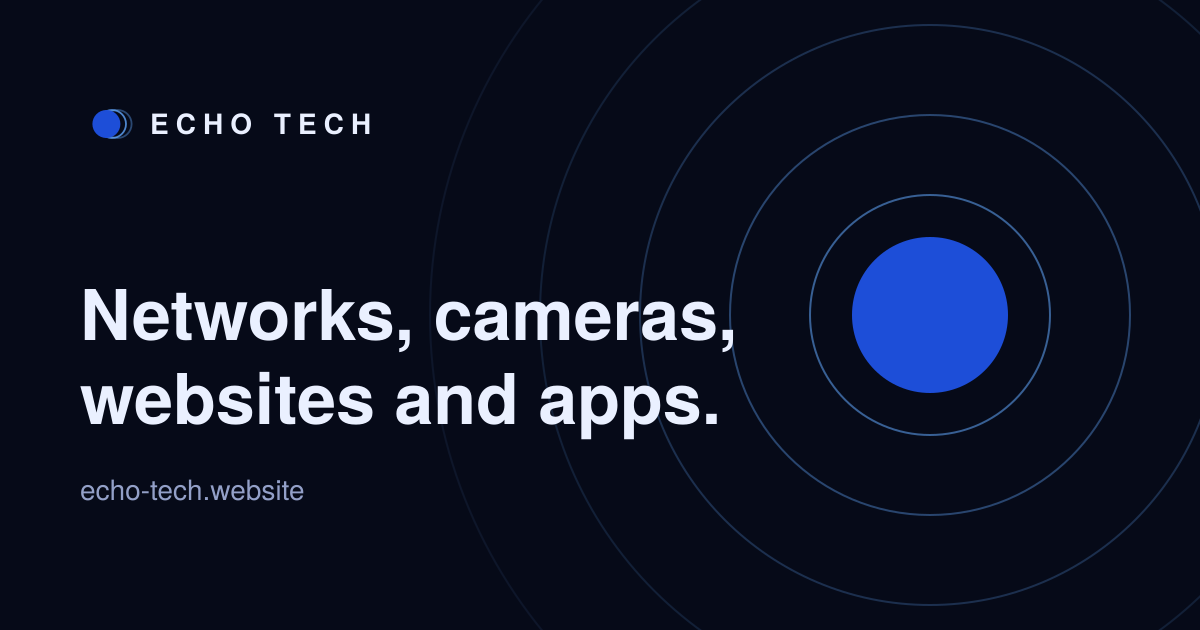
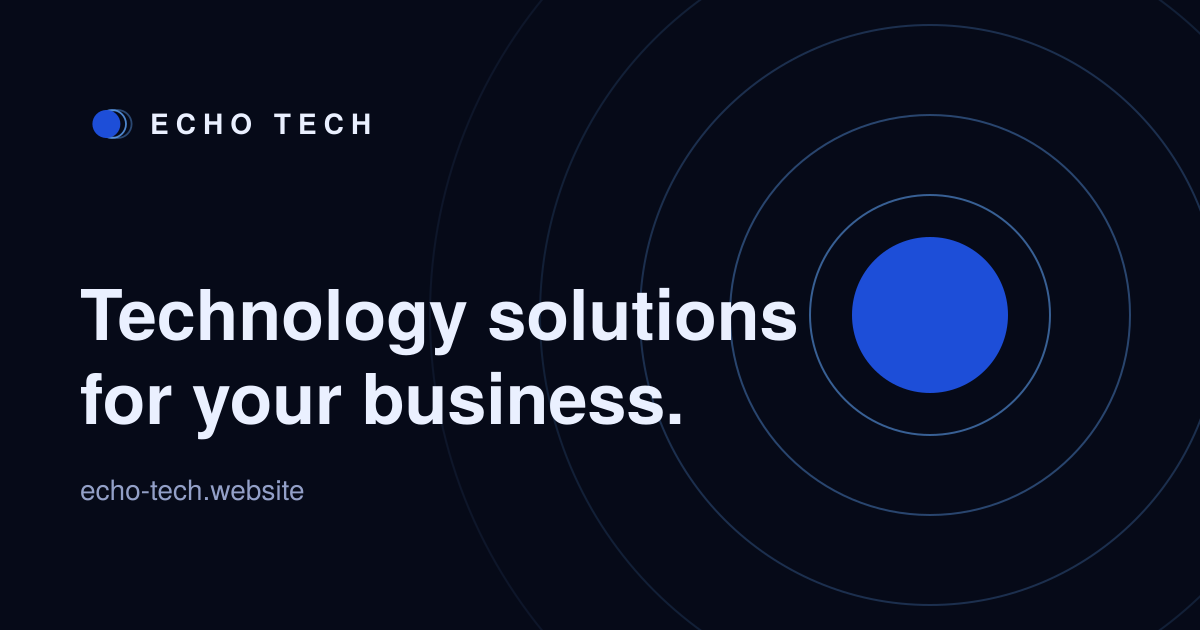
Make the share image generic and cache-bust it
Claude-Session: https://claude.ai/code/session_01CFoya7mvDhCqyibe4pdqP6

Changed region(s): [[0.0617, 0.4524, 0.6783, 0.573], [0.0617, 0.573, 0.5858, 0.6937]]

diff --git a/public/services/network/index.html b/public/services/network/index.html
@@ -16,7 +16,7 @@
 <meta property="og:title" content="البنية التحتية للشبكات للمكاتب والمحال والمواقع — Echo Tech">
 <meta property="og:description" content="تصمّم إيكو تك الشبكات السلكية واللاسلكية وتركّبها وتوثّقها: كابلات وواي فاي وراوترات وجدران حماية ووصول آمن عن بُعد.">
 <meta property="og:url" content="https://echo-tech.website/services/network/">
-<meta property="og:image" content="https://echo-tech.website/assets/brand/og-image.png">
+<meta property="og:image" content="https://echo-tech.website/assets/brand/og-image.png?v=5ab52fd40d">
 <meta property="og:image:width" content="1200">
 <meta property="og:image:height" content="630">
 <meta property="og:locale" content="ar_EG">
@@ -24,7 +24,7 @@
 <meta name="twitter:card" content="summary_large_image">
 <meta name="twitter:title" content="البنية التحتية للشبكات للمكاتب والمحال والمواقع — Echo Tech">
 <meta name="twitter:description" content="تصمّم إيكو تك الشبكات السلكية واللاسلكية وتركّبها وتوثّقها: كابلات وواي فاي وراوترات وجدران حماية ووصول آمن عن بُعد.">
-<meta name="twitter:image" content="https://echo-tech.website/assets/brand/og-image.png">
+<meta name="twitter:image" content="https://echo-tech.website/assets/brand/og-image.png?v=5ab52fd40d">
 <link rel="icon" href="/favicon.ico" sizes="48x48">
 <link rel="icon" href="/favicon.svg" type="image/svg+xml">
 <link rel="apple-touch-icon" href="/apple-touch-icon.png">

diff --git a/public/services/web/index.html b/public/services/web/index.html
@@ -16,7 +16,7 @@
 <meta property="og:title" content="تصميم وتطوير المواقع الإلكترونية بالعربية والإنجليزية — Echo Tech">
 <meta property="og:description" content="تبني إيكو تك مواقع سريعة بلغتين على Cloudflare، بهيكلة صديقة لمحركات البحث ونماذج تصلك على بريدك أو نظام العملاء.">
 <meta property="og:url" content="https://echo-tech.website/services/web/">
-<meta property="og:image" content="https://echo-tech.website/assets/brand/og-image.png">
+<meta property="og:image" content="https://echo-tech.website/assets/brand/og-image.png?v=5ab52fd40d">
 <meta property="og:image:width" content="1200">
 <meta property="og:image:height" content="630">
 <meta property="og:locale" content="ar_EG">
@@ -24,7 +24,7 @@
 <meta name="twitter:card" content="summary_large_image">
 <meta name="twitter:title" content="تصميم وتطوير المواقع الإلكترونية بالعربية والإنجليزية — Echo Tech">
 <meta name="twitter:description" content="تبني إيكو تك مواقع سريعة بلغتين على Cloudflare، بهيكلة صديقة لمحركات البحث ونماذج تصلك على بريدك أو نظام العملاء.">
-<meta name="twitter:image" content="https://echo-tech.website/assets/brand/og-image.png">
+<meta name="twitter:image" content="https://echo-tech.website/assets/brand/og-image.png?v=5ab52fd40d">
 <link rel="icon" href="/favicon.ico" sizes="48x48">
 <link rel="icon" href="/favicon.svg" type="image/svg+xml">
 <link rel="apple-touch-icon" href="/apple-touch-icon.png">

diff --git a/public/services/cctv/index.html b/public/services/cctv/index.html
@@ -16,7 +16,7 @@
 <meta property="og:title" content="أنظمة كاميرات المراقبة: تصميم وتركيب ومشاهدة عن بُعد — Echo Tech">
 <meta property="og:description" content="تصمّم إيكو تك أنظمة كاميرات IP وتركّبها بتسجيل موثوق ومشاهدة عن بُعد على الموبايل والكمبيوتر.">
 <meta property="og:url" content="https://echo-tech.website/services/cctv/">
-<meta property="og:image" content="https://echo-tech.website/assets/brand/og-image.png">
+<meta property="og:image" content="https://echo-tech.website/assets/brand/og-image.png?v=5ab52fd40d">
 <meta property="og:image:width" content="1200">
 <meta property="og:image:height" content="630">
 <meta property="og:locale" content="ar_EG">
@@ -24,7 +24,7 @@
 <meta name="twitter:card" content="summary_large_image">
 <meta name="twitter:title" content="أنظمة كاميرات المراقبة: تصميم وتركيب ومشاهدة عن بُعد — Echo Tech">
 <meta name="twitter:description" content="تصمّم إيكو تك أنظمة كاميرات IP وتركّبها بتسجيل موثوق ومشاهدة عن بُعد على الموبايل والكمبيوتر.">
-<meta name="twitter:image" content="https://echo-tech.website/assets/brand/og-image.png">
+<meta name="twitter:image" content="https://echo-tech.website/assets/brand/og-image.png?v=5ab52fd40d">
 <link rel="icon" href="/favicon.ico" sizes="48x48">
 <link rel="icon" href="/favicon.svg" type="image/svg+xml">
 <link rel="apple-touch-icon" href="/apple-touch-icon.png">

diff --git a/public/services/apps/index.html b/public/services/apps/index.html
@@ -16,7 +16,7 @@
 <meta property="og:title" content="تطوير تطبيقات الموبايل لـ iOS وAndroid — Echo Tech">
 <meta property="og:description" content="تحدّد إيكو تك نطاق تطبيقات iOS وAndroid وتصمّمها وتبنيها مع الواجهات البرمجية وقواعد البيانات التي تحتاجها.">
 <meta property="og:url" content="https://echo-tech.website/services/apps/">
-<meta property="og:image" content="https://echo-tech.website/assets/brand/og-image.png">
+<meta property="og:image" content="https://echo-tech.website/assets/brand/og-image.png?v=5ab52fd40d">
 <meta property="og:image:width" content="1200">
 <meta property="og:image:height" content="630">
 <meta property="og:locale" content="ar_EG">
@@ -24,7 +24,7 @@
 <meta name="twitter:card" content="summary_large_image">
 <meta name="twitter:title" content="تطوير تطبيقات الموبايل لـ iOS وAndroid — Echo Tech">
 <meta name="twitter:description" content="تحدّد إيكو تك نطاق تطبيقات iOS وAndroid وتصمّمها وتبنيها مع الواجهات البرمجية وقواعد البيانات التي تحتاجها.">
-<meta name="twitter:image" content="https://echo-tech.website/assets/brand/og-image.png">
+<meta name="twitter:image" content="https://echo-tech.website/assets/brand/og-image.png?v=5ab52fd40d">
 <link rel="icon" href="/favicon.ico" sizes="48x48">
 <link rel="icon" href="/favicon.svg" type="image/svg+xml">
 <link rel="apple-touch-icon" href="/apple-touch-icon.png">

diff --git a/public/services/systems/index.html b/public/services/systems/index.html
@@ -16,7 +16,7 @@
 <meta property="og:title" content="أنظمة إدارة العملاء والأنظمة الداخلية للأعمال — Echo Tech">
 <meta property="og:description" content="تبني إيكو تك أنظمة إدارة العملاء والحجوزات والأدوات الداخلية بما يناسب طريقة عمل فريقك.">
 <meta property="og:url" content="https://echo-tech.website/services/systems/">
-<meta property="og:image" content="https://echo-tech.website/assets/brand/og-image.png">
+<meta property="og:image" content="https://echo-tech.website/assets/brand/og-image.png?v=5ab52fd40d">
 <meta property="og:image:width" content="1200">
 <meta property="og:image:height" content="630">
 <meta property="og:locale" content="ar_EG">
@@ -24,7 +24,7 @@
 <meta name="twitter:card" content="summary_large_image">
 <meta name="twitter:title" content="أنظمة إدارة العملاء والأنظمة الداخلية للأعمال — Echo Tech">
 <meta name="twitter:description" content="تبني إيكو تك أنظمة إدارة العملاء والحجوزات والأدوات الداخلية بما يناسب طريقة عمل فريقك.">
-<meta name="twitter:image" content="https://echo-tech.website/assets/brand/og-image.png">
+<meta name="twitter:image" content="https://echo-tech.website/assets/brand/og-image.png?v=5ab52fd40d">
 <link rel="icon" href="/favicon.ico" sizes="48x48">
 <link rel="icon" href="/favicon.svg" type="image/svg+xml">
 <link rel="apple-touch-icon" href="/apple-touch-icon.png">

diff --git a/public/en/services/network/index.html b/public/en/services/network/index.html
@@ -16,7 +16,7 @@
 <meta property="og:title" content="Network infrastructure for offices, shops and sites — Echo Tech">
 <meta property="og:description" content="Echo Tech plans, installs and documents wired and wireless networks: cabling, Wi-Fi, routers, firewalls and secure remote access.">
 <meta property="og:url" content="https://echo-tech.website/en/services/network/">
-<meta property="og:image" content="https://echo-tech.website/assets/brand/og-image.png">
+<meta property="og:image" content="https://echo-tech.website/assets/brand/og-image.png?v=5ab52fd40d">
 <meta property="og:image:width" content="1200">
 <meta property="og:image:height" content="630">
 <meta property="og:locale" content="en_US">
@@ -24,7 +24,7 @@
 <meta name="twitter:card" content="summary_large_image">
 <meta name="twitter:title" content="Network infrastructure for offices, shops and sites — Echo Tech">
 <meta name="twitter:description" content="Echo Tech plans, installs and documents wired and wireless networks: cabling, Wi-Fi, routers, firewalls and secure remote access.">
-<meta name="twitter:image" content="https://echo-tech.website/assets/brand/og-image.png">
+<meta name="twitter:image" content="https://echo-tech.website/assets/brand/og-image.png?v=5ab52fd40d">
 <link rel="icon" href="/favicon.ico" sizes="48x48">
 <link rel="icon" href="/favicon.svg" type="image/svg+xml">
 <link rel="apple-touch-icon" href="/apple-touch-icon.png">

diff --git a/public/en/services/web/index.html b/public/en/services/web/index.html
@@ -16,7 +16,7 @@
 <meta property="og:title" content="Website design and development in Arabic and English — Echo Tech">
 <meta property="og:description" content="Echo Tech builds fast bilingual websites hosted on Cloudflare, with search-ready markup and forms that reach your inbox or CRM.">
 <meta property="og:url" content="https://echo-tech.website/en/services/web/">
-<meta property="og:image" content="https://echo-tech.website/assets/brand/og-image.png">
+<meta property="og:image" content="https://echo-tech.website/assets/brand/og-image.png?v=5ab52fd40d">
 <meta property="og:image:width" content="1200">
 <meta property="og:image:height" content="630">
 <meta property="og:locale" content="en_US">
@@ -24,7 +24,7 @@
 <meta name="twitter:card" content="summary_large_image">
 <meta name="twitter:title" content="Website design and development in Arabic and English — Echo Tech">
 <meta name="twitter:description" content="Echo Tech builds fast bilingual websites hosted on Cloudflare, with search-ready markup and forms that reach your inbox or CRM.">
-<meta name="twitter:image" content="https://echo-tech.website/assets/brand/og-image.png">
+<meta name="twitter:image" content="https://echo-tech.website/assets/brand/og-image.png?v=5ab52fd40d">
 <link rel="icon" href="/favicon.ico" sizes="48x48">
 <link rel="icon" href="/favicon.svg" type="image/svg+xml">
 <link rel="apple-touch-icon" href="/apple-touch-icon.png">

diff --git a/public/work/index.html b/public/work/index.html
@@ -16,7 +16,7 @@
 <meta property="og:title" content="أعمالنا — Echo Tech">
 <meta property="og:description" content="مشاريع إيكو تك: مواقع بلغتين وأنظمة داخلية لأنشطة محلية، بدءًا من جوي زوون في الإسكندرية.">
 <meta property="og:url" content="https://echo-tech.website/work/">
-<meta property="og:image" content="https://echo-tech.website/assets/brand/og-image.png">
+<meta property="og:image" content="https://echo-tech.website/assets/brand/og-image.png?v=5ab52fd40d">
 <meta property="og:image:width" content="1200">
 <meta property="og:image:height" content="630">
 <meta property="og:locale" content="ar_EG">
@@ -24,7 +24,7 @@
 <meta name="twitter:card" content="summary_large_image">
 <meta name="twitter:title" content="أعمالنا — Echo Tech">
 <meta name="twitter:description" content="مشاريع إيكو تك: مواقع بلغتين وأنظمة داخلية لأنشطة محلية، بدءًا من جوي زوون في الإسكندرية.">
-<meta name="twitter:image" content="https://echo-tech.website/assets/brand/og-image.png">
+<meta name="twitter:image" content="https://echo-tech.website/assets/brand/og-image.png?v=5ab52fd40d">
 <link rel="icon" href="/favicon.ico" sizes="48x48">
 <link rel="icon" href="/favicon.svg" type="image/svg+xml">
 <link rel="apple-touch-icon" href="/apple-touch-icon.png">

diff --git a/public/index.html b/public/index.html
@@ -16,7 +16,7 @@
 <meta property="og:title" content="إيكو تك — حلول تقنية لأعمالك">
 <meta property="og:description" content="إيكو تك تصمّم وتبني وتدعم التقنية التي تعتمد عليها أعمالك، لعملاء في أي مكان.">
 <meta property="og:url" content="https://echo-tech.website/">
-<meta property="og:image" content="https://echo-tech.website/assets/brand/og-image.png">
+<meta property="og:image" content="https://echo-tech.website/assets/brand/og-image.png?v=5ab52fd40d">
 <meta property="og:image:width" content="1200">
 <meta property="og:image:height" content="630">
 <meta property="og:locale" content="ar_EG">
@@ -24,7 +24,7 @@
 <meta name="twitter:card" content="summary_large_image">
 <meta name="twitter:title" content="إيكو تك — حلول تقنية لأعمالك">
 <meta name="twitter:description" content="إيكو تك تصمّم وتبني وتدعم التقنية التي تعتمد عليها أعمالك، لعملاء في أي مكان.">
-<meta name="twitter:image" content="https://echo-tech.website/assets/brand/og-image.png">
+<meta name="twitter:image" content="https://echo-tech.website/assets/brand/og-image.png?v=5ab52fd40d">
 <link rel="icon" href="/favicon.ico" sizes="48x48">
 <link rel="icon" href="/favicon.svg" type="image/svg+xml">
 <link rel="apple-touch-icon" href="/apple-touch-icon.png">

diff --git a/public/en/services/cctv/index.html b/public/en/services/cctv/index.html
@@ -16,7 +16,7 @@
 <meta property="og:title" content="CCTV systems: design, installation and remote viewing — Echo Tech">
 <meta property="og:description" content="Echo Tech designs and installs IP camera systems with reliable recording and remote viewing on phone and desktop.">
 <meta property="og:url" content="https://echo-tech.website/en/services/cctv/">
-<meta property="og:image" content="https://echo-tech.website/assets/brand/og-image.png">
+<meta property="og:image" content="https://echo-tech.website/assets/brand/og-image.png?v=5ab52fd40d">
 <meta property="og:image:width" content="1200">
 <meta property="og:image:height" content="630">
 <meta property="og:locale" content="en_US">
@@ -24,7 +24,7 @@
 <meta name="twitter:card" content="summary_large_image">
 <meta name="twitter:title" content="CCTV systems: design, installation and remote viewing — Echo Tech">
 <meta name="twitter:description" content="Echo Tech designs and installs IP camera systems with reliable recording and remote viewing on phone and desktop.">
-<meta name="twitter:image" content="https://echo-tech.website/assets/brand/og-image.png">
+<meta name="twitter:image" content="https://echo-tech.website/assets/brand/og-image.png?v=5ab52fd40d">
 <link rel="icon" href="/favicon.ico" sizes="48x48">
 <link rel="icon" href="/favicon.svg" type="image/svg+xml">
 <link rel="apple-touch-icon" href="/apple-touch-icon.png">

diff --git a/public/en/services/apps/index.html b/public/en/services/apps/index.html
@@ -16,7 +16,7 @@
 <meta property="og:title" content="Mobile app development for iOS and Android — Echo Tech">
 <meta property="og:description" content="Echo Tech scopes, designs and builds iOS and Android apps together with the APIs and databases they depend on.">
 <meta property="og:url" content="https://echo-tech.website/en/services/apps/">
-<meta property="og:image" content="https://echo-tech.website/assets/brand/og-image.png">
+<meta property="og:image" content="https://echo-tech.website/assets/brand/og-image.png?v=5ab52fd40d">
 <meta property="og:image:width" content="1200">
 <meta property="og:image:height" content="630">
 <meta property="og:locale" content="en_US">
@@ -24,7 +24,7 @@
 <meta name="twitter:card" content="summary_large_image">
 <meta name="twitter:title" content="Mobile app development for iOS and Android — Echo Tech">
 <meta name="twitter:description" content="Echo Tech scopes, designs and builds iOS and Android apps together with the APIs and databases they depend on.">
-<meta name="twitter:image" content="https://echo-tech.website/assets/brand/og-image.png">
+<meta name="twitter:image" content="https://echo-tech.website/assets/brand/og-image.png?v=5ab52fd40d">
 <link rel="icon" href="/favicon.ico" sizes="48x48">
 <link rel="icon" href="/favicon.svg" type="image/svg+xml">
 <link rel="apple-touch-icon" href="/apple-touch-icon.png">

diff --git a/public/en/services/systems/index.html b/public/en/services/systems/index.html
@@ -16,7 +16,7 @@
 <meta property="og:title" content="CRMs and internal business systems — Echo Tech">
 <meta property="og:description" content="Echo Tech builds CRMs, booking systems and internal tools shaped around how your team already works.">
 <meta property="og:url" content="https://echo-tech.website/en/services/systems/">
-<meta property="og:image" content="https://echo-tech.website/assets/brand/og-image.png">
+<meta property="og:image" content="https://echo-tech.website/assets/brand/og-image.png?v=5ab52fd40d">
 <meta property="og:image:width" content="1200">
 <meta property="og:image:height" content="630">
 <meta property="og:locale" content="en_US">
@@ -24,7 +24,7 @@
 <meta name="twitter:card" content="summary_large_image">
 <meta name="twitter:title" content="CRMs and internal business systems — Echo Tech">
 <meta name="twitter:description" content="Echo Tech builds CRMs, booking systems and internal tools shaped around how your team already works.">
-<meta name="twitter:image" content="https://echo-tech.website/assets/brand/og-image.png">
+<meta name="twitter:image" content="https://echo-tech.website/assets/brand/og-image.png?v=5ab52fd40d">
 <link rel="icon" href="/favicon.ico" sizes="48x48">
 <link rel="icon" href="/favicon.svg" type="image/svg+xml">
 <link rel="apple-touch-icon" href="/apple-touch-icon.png">
